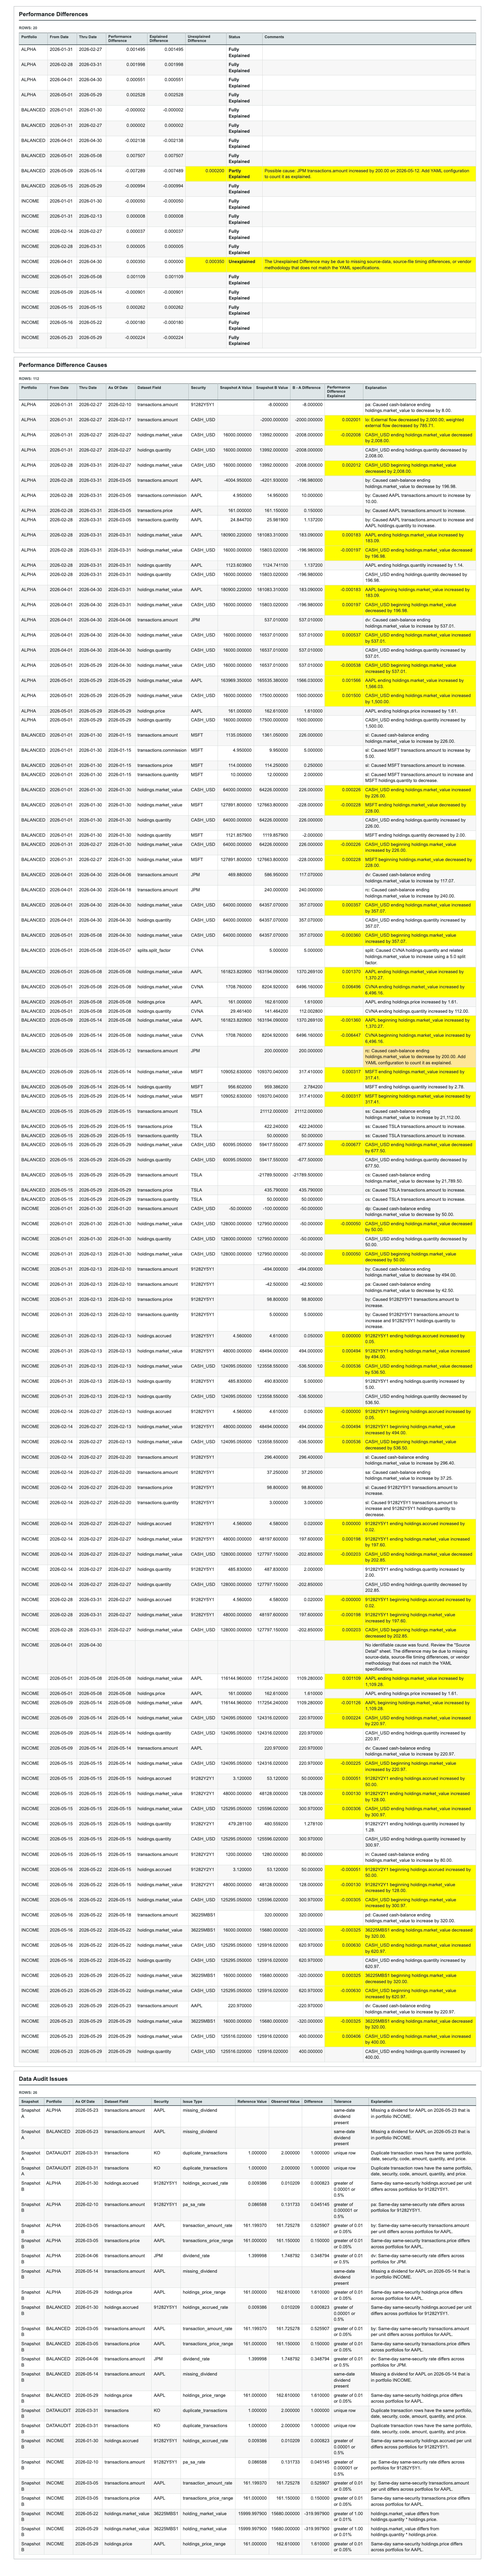
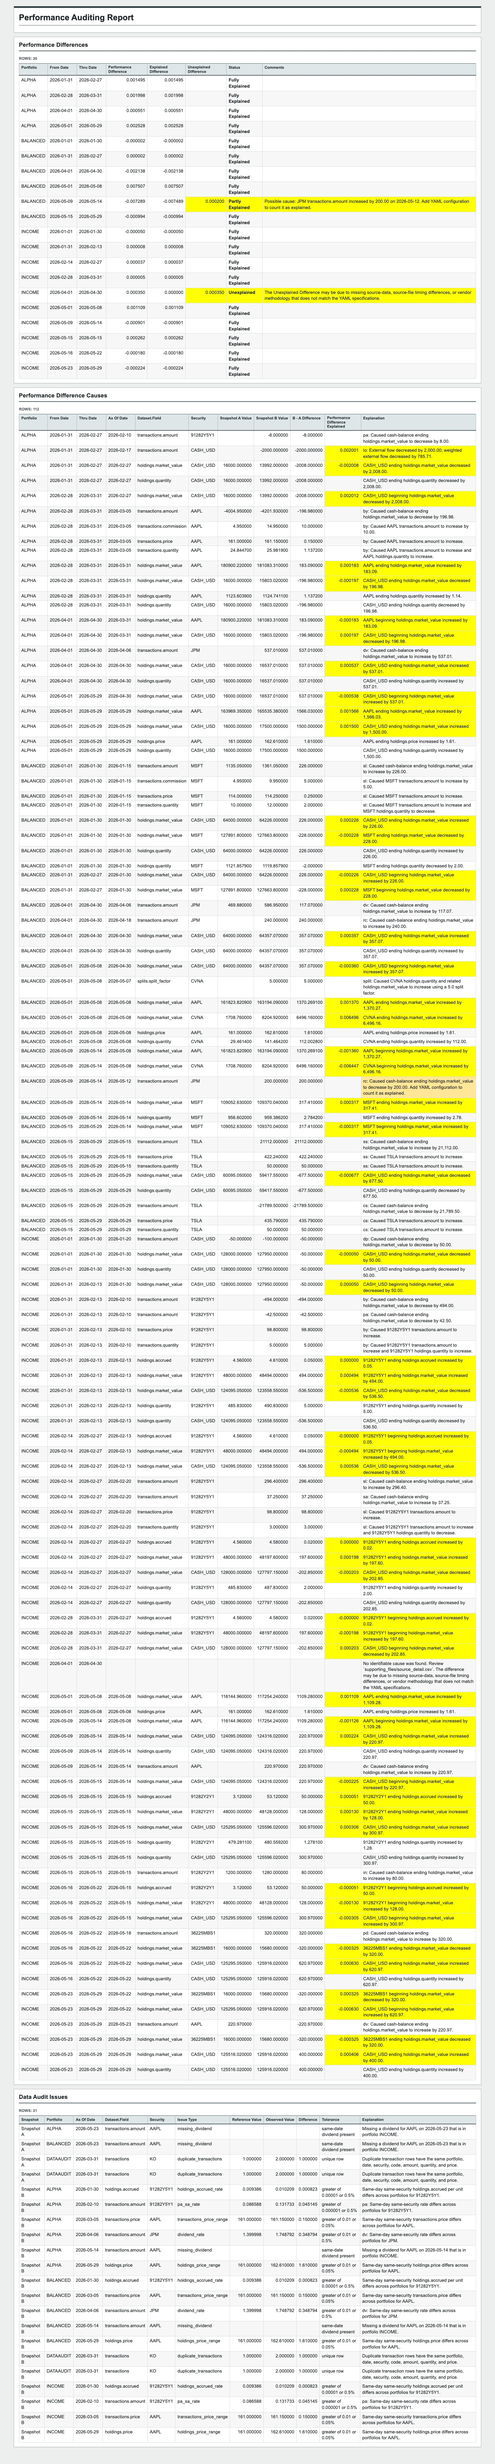
Perfomance Audit Image

Changed region(s): [[0.0312, 0.0, 0.9688, 0.9957]]

diff --git a/scripts/render_readme_images.py b/scripts/render_readme_images.py
@@ -61,13 +61,6 @@ _MINIMUM_CROPPED_WIDTH_BY_NAME = {"RiskStatistics": 2000}
 _PORTFOLIO_PERFORMANCE_AUDIT_HTML = (
     _REPO_ROOT / "_demo_output" / "performance_comparison_portfolio" / "report.html"
 )
-_PORTFOLIO_PERFORMANCE_AUDIT_SECTIONS = (
-    ("performance-differences", "Performance Differences"),
-    ("performance-difference-causes", "Performance Difference Causes"),
-    ("data-audit-issues", "Data Audit Issues"),
-)
-
-
 def main() -> None:
     """Render all README table screenshots.
 
@@ -96,27 +89,12 @@ def main() -> None:
             )
             _render_cropped_jpg(chrome_path, html_path, temp_dir, "RiskStatistics")
         if args.only in ("all", "performance-comparison"):
-            html_inputs = {
-                "PerformanceAuditPortfolio": _write_report_sections_input(
-                    _PORTFOLIO_PERFORMANCE_AUDIT_HTML,
-                    temp_dir / "PerformanceAuditPortfolio.html",
-                    sections=_PORTFOLIO_PERFORMANCE_AUDIT_SECTIONS,
-                    title="Portfolio Performance Auditing",
-                    extra_style="""
-                    <style>
-                    html,
-                    body {
-                      background: #ffffff;
-                    }
-                    .pc-col-review-key {
-                      display: none;
-                    }
-                    </style>
-                    """,
-                )
-            }
-            for name, html_path in html_inputs.items():
-                _render_cropped_jpg(chrome_path, html_path, temp_dir, name)
+            _render_cropped_jpg(
+                chrome_path,
+                _PORTFOLIO_PERFORMANCE_AUDIT_HTML,
+                temp_dir,
+                "PerformanceAuditPortfolio",
+            )
 
 
 def _parse_args() -> argparse.Namespace:
@@ -341,87 +319,6 @@ def _render_cropped_jpg(
         _IMAGE_DIR / f"{name}.jpg",
         minimum_width=_MINIMUM_CROPPED_WIDTH_BY_NAME.get(name),
     )
-
-
-def _write_report_sections_input(
-    source_html_path: Path,
-    destination_html_path: Path,
-    *,
-    sections: Sequence[tuple[str, str]],
-    title: str,
-    extra_style: str = "",
-) -> Path:
-    """Write a temporary HTML page containing selected report sections.
-
-    Args:
-        source_html_path: Existing report HTML file to read.
-        destination_html_path: Temporary HTML file to write.
-        sections: Section HTML ids and titles to extract from the source report.
-        title: Temporary page title.
-        extra_style: Additional CSS to append for README-only presentation.
-
-    Returns:
-        Path to the temporary report-section HTML file.
-
-    Raises:
-        FileNotFoundError: If ``source_html_path`` does not exist.
-        ValueError: If a requested section cannot be found.
-        OSError: If source or destination HTML cannot be read or written.
-    """
-    source_html = source_html_path.read_text(encoding=util.ENCODING)
-    style_html = _html_between(source_html, "<style>", "</style>") or ""
-    section_html = "\n".join(
-        _extract_report_section(source_html, source_html_path, section_id)
-        for section_id, _section_title in sections
-    )
-    destination_html_path.write_text(
-        "\n".join(
-            [
-                "<!doctype html>",
-                "<html>",
-                "<head>",
-                f"<title>{title}</title>",
-                style_html,
-                extra_style,
-                "</head>",
-                "<body>",
-                '<main class="pc-report">',
-                section_html,
-                "</main>",
-                "</body>",
-                "</html>",
-            ]
-        ),
-        encoding=util.ENCODING,
-    )
-    return destination_html_path
-
-
-def _extract_report_section(
-    source_html: str,
-    source_html_path: Path,
-    section_id: str,
-) -> str:
-    """Return one report section from a generated HTML report."""
-    section_marker = f'<section class="pc-section" id="{section_id}">'
-    section_start = source_html.find(section_marker)
-    if section_start < 0:
-        raise ValueError(f"{source_html_path} does not contain section {section_id!r}")
-    section_end = source_html.find("</section>", section_start)
-    if section_end < 0:
-        raise ValueError(f"{source_html_path} has an unterminated section {section_id!r}")
-    return source_html[section_start : section_end + len("</section>")]
-
-
-def _html_between(html: str, start_marker: str, end_marker: str) -> str | None:
-    """Return inclusive HTML text between two markers, if present."""
-    start = html.find(start_marker)
-    if start < 0:
-        return None
-    end = html.find(end_marker, start)
-    if end < 0:
-        return None
-    return html[start : end + len(end_marker)]
 
 
 def _crop_and_save_jpg(

diff --git a/docs/images/README.md b/docs/images/README.md
@@ -5,6 +5,5 @@ This directory contains durable image assets used by repository documentation.
 | Path | Contents | Maintenance |
 | --- | --- | --- |
 | `readme/` | Generated PNG/JPG assets embedded in the root `README.md`. | Regenerate with `./.venv/bin/python scripts/render_readme_images.py`. |
-| `performance_comparison/` | Performance Auditing workflow and report-preview SVGs. | Update manually when the documented report workflow changes. |
 
 Generated demo/report outputs belong under `_demo_output/`, not here.
